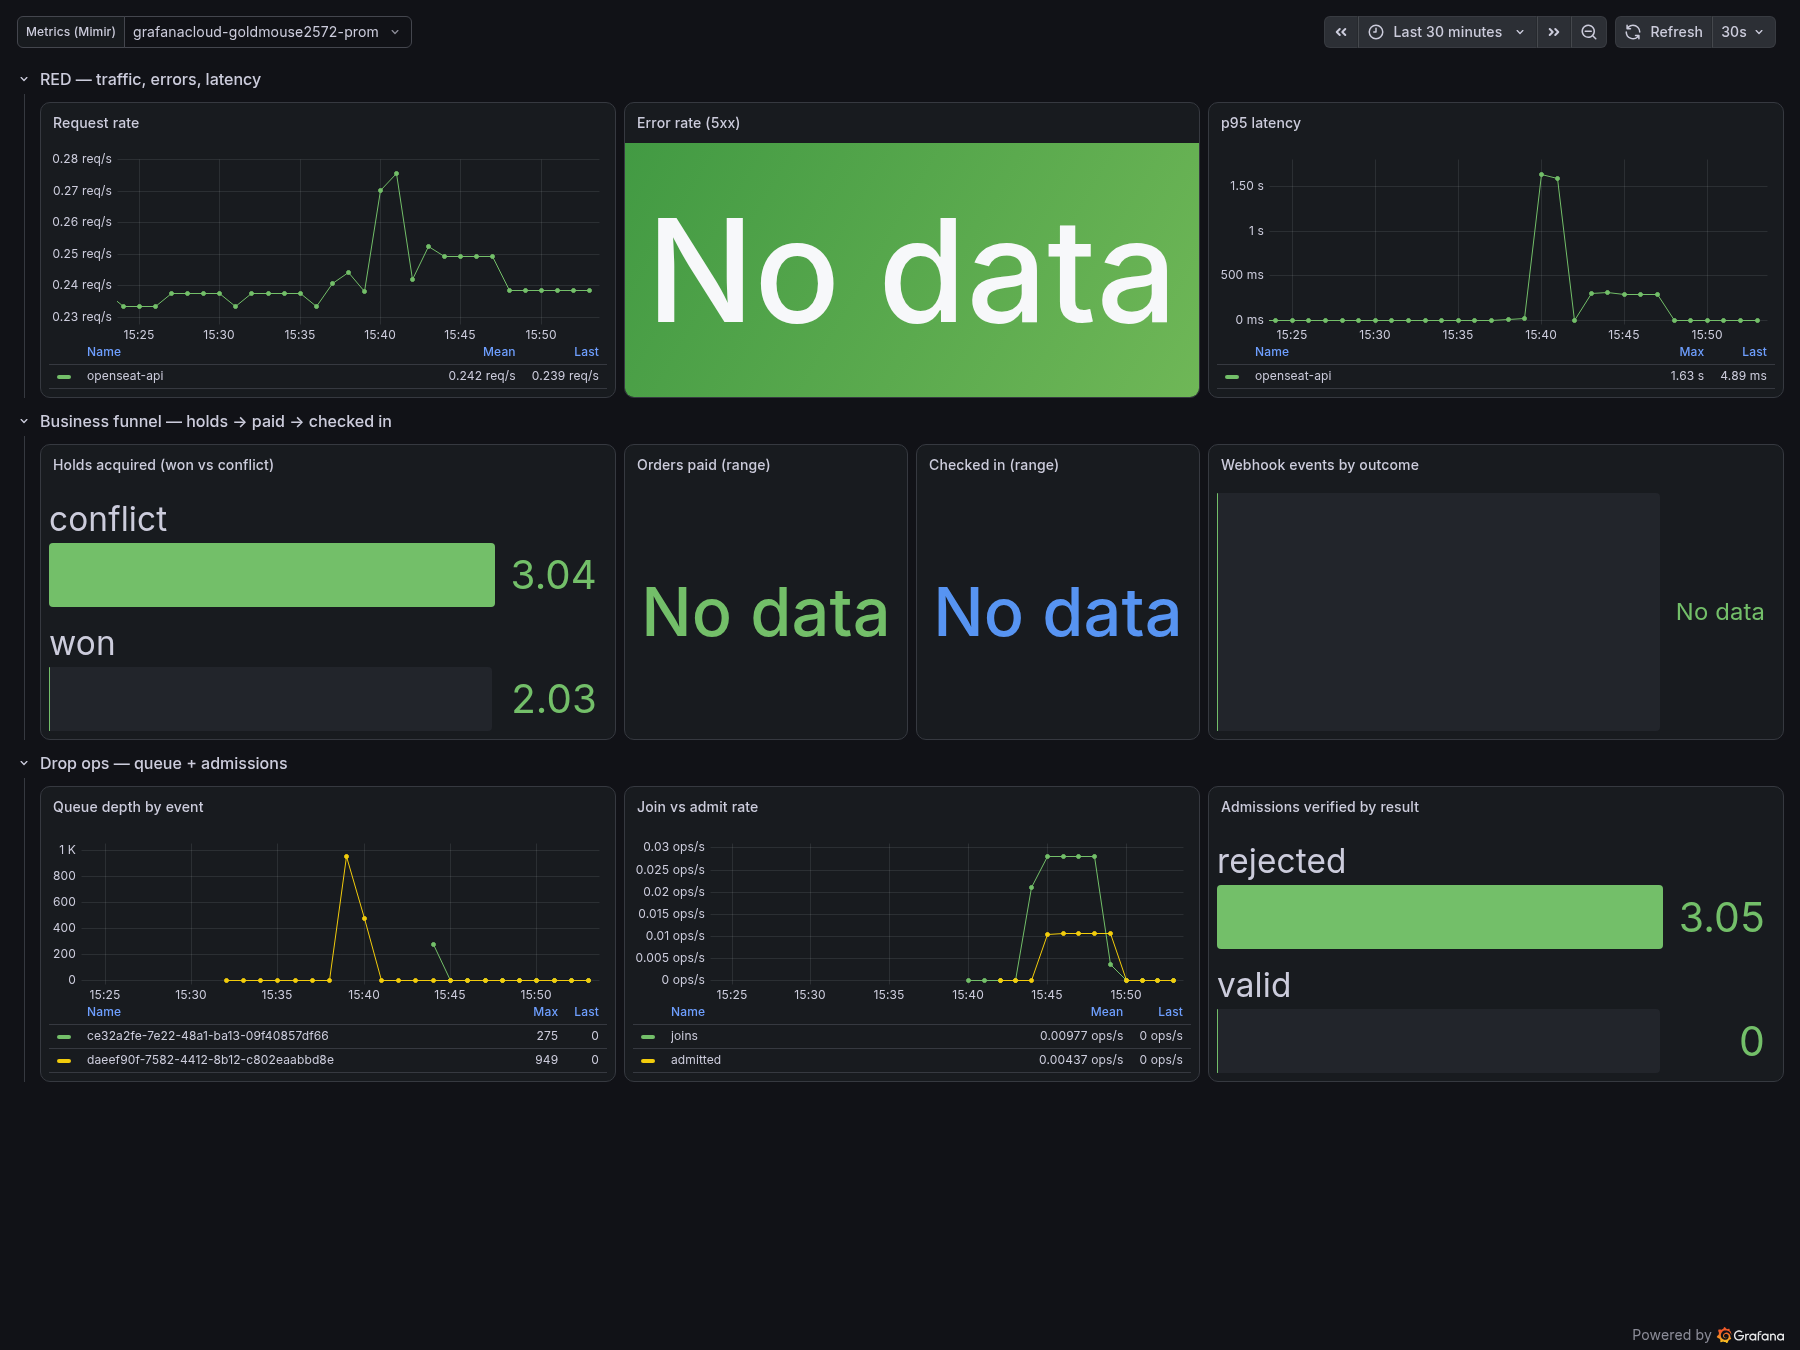
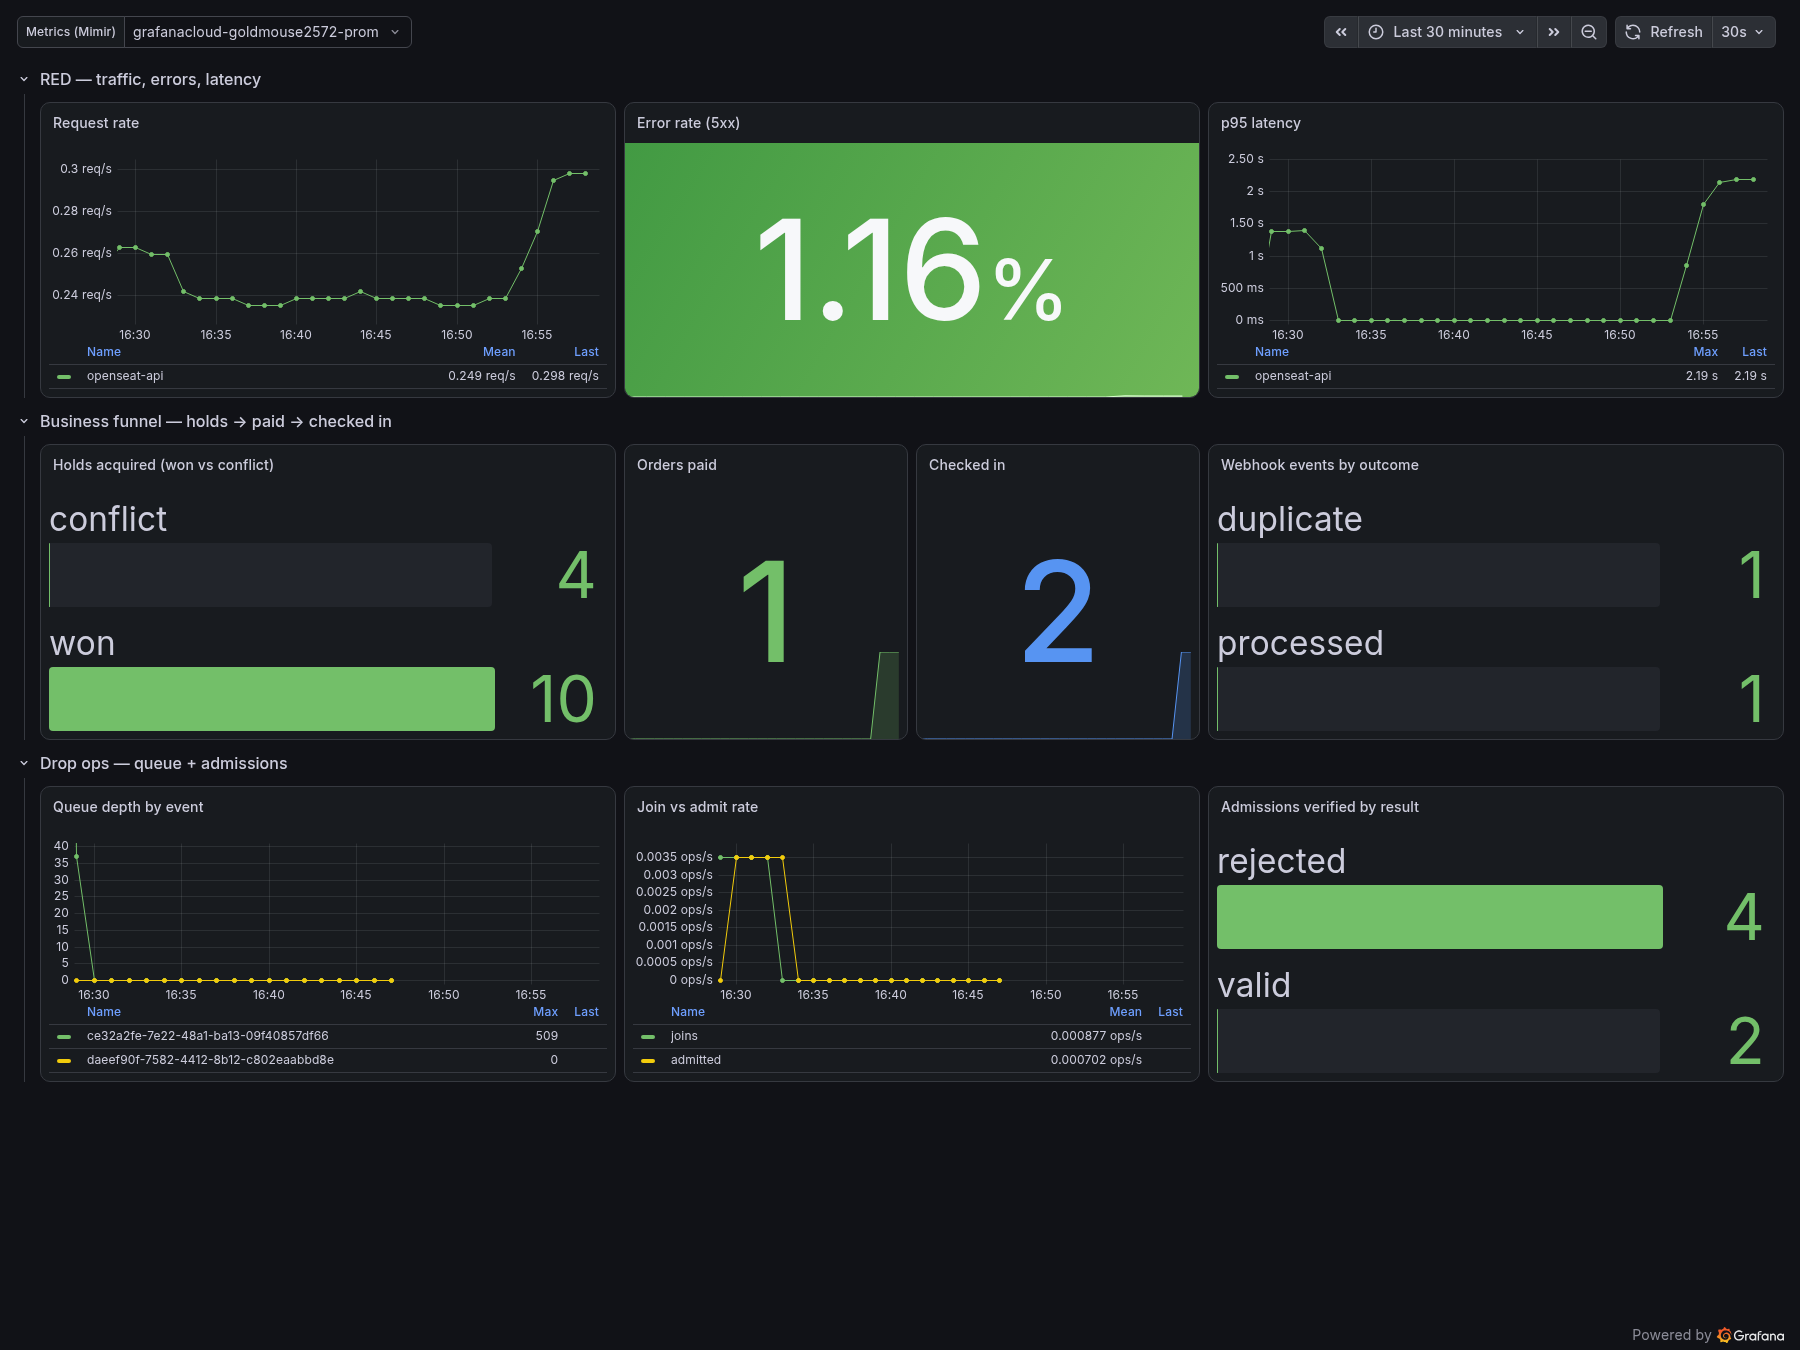
docs: replace the dashboard capture with a fully populated funnel
The committed screenshot predated the query fixes and showed their
absence: 'No data' on error rate and every funnel stage, and extrapolated
counters reading conflict 3.04 / won 2.03. A production run through the
whole flow — hold, pay, check in, rescan — fills every panel, so the
capture now shows what the dashboard is for.

Add the PayMock sleep incident to the runbook. It surfaced during that
run and the existing entries miss it: incident 3 watches the webhook
path, but a sleeping provider fails earlier, before an intent exists.

diff --git a/docs/runbook.md b/docs/runbook.md
@@ -1,6 +1,6 @@
 # OpenSeat Runbook
 
-How to detect, diagnose, and mitigate the five incidents most likely to hit this deployment. Telemetry lives in Grafana Cloud (dashboard: **OpenSeat Ops**, exported to `docs/observability/openseat-ops-dashboard.json`); services export OTLP directly per ADR 0009.
+How to detect, diagnose, and mitigate the six incidents most likely to hit this deployment. Telemetry lives in Grafana Cloud (dashboard: **OpenSeat Ops**, exported to `docs/observability/openseat-ops-dashboard.json`); services export OTLP directly per ADR 0009.
 
 Conventions used below:
 
@@ -47,6 +47,14 @@ Conventions used below:
 **Diagnose.** In Tempo, `{ resource.service.name = "openseat-api" && duration > 500ms }` then open the slowest traces — the auto-instrumented `pg` spans show which query burns the time. Hold-acquisition conflicts (`holds_acquired_total{result="conflict"}`) rising alongside is contention on hot seats, which is expected during a drop; uniform slowness across unrelated queries is the Neon free-tier compute limit.
 
 **Mitigate.** Contention: nothing to fix — the `INSERT … ON CONFLICT` path is designed to lose fast (ADR 0002). General saturation: Neon free tier autosuspends and shares compute; sustained load needs the paid tier or the AWS path (`docs/aws-production.md`, RDS sizing). Long term the read-heavy dashboard queries move to a replica per that document.
+
+## 6. PayMock asleep — checkout cannot start
+
+**Detect.** Buyers get `502 The payment provider is unavailable — try again shortly` the moment they submit an order, while the RED row stays healthy: the API is fine, its dependency is not. `orders_paid_total` flatlines even though holds keep being won, and no `webhook_events_total` movement follows — unlike incident 3, no intent was ever created, so there is no webhook to wait for. The API answers 502, so a large enough burst trips the 5xx alert.
+
+**Diagnose.** PayMock is a Render free service and is *allowed* to sleep — the keep-alive cron deliberately covers only the API (ADR 0009's hosting trade-off). Confirm with `{service_name="openseat-api"} | json |= "paymock"`, or open the checkout trace in Tempo and read the failed outbound span to the PayMock origin. A cold start measured **22.5 s** on 2026-07-16, far past the client's timeout, which is why the first buyer after an idle period always eats a 502 and a retry moments later succeeds.
+
+**Mitigate.** Wake it — `curl -sS https://<paymock-origin>/health` — then retry; the next attempt succeeds. Nothing is stranded: `createIntent` runs *after* the order transaction commits, and its failure path cancels the order (`expireOrder(orderId, 'canceled')` in `orders.service.ts`), releasing the seats in one transaction instead of holding them for the 15-minute payment window. A PayMock nap therefore leaves a trail of `canceled` orders, never stuck `awaiting_payment` ones. Ping `/health` before recording a demo.
 
 ## Escalation notes
 

diff --git a/docs/observability/README.md b/docs/observability/README.md
@@ -9,7 +9,7 @@ The committed half of M7 (see `docs/specs/2026-07-16-m7-observability-design.md`
 Proof it works in production:
 
 - ![Cross-language trace](trace-web-to-gate.png) — **`trace-web-to-gate.png`**: one trace, two languages. The browser's `fetch` span (`openseat-web`, JavaScript via Faro) is the parent of `POST /gate/{eventId}/join` (`openseat-gate`, Go). W3C `traceparent` survives the cross-origin hop, which is the whole point of instrumenting both sides with OpenTelemetry instead of a vendor SDK. Found with `{ resource.service.name = "openseat-web" } && { resource.service.name = "openseat-gate" }`.
-- **`dashboard.png`** — the live dashboard: queue depth spiking to ~950 and draining to zero under the admitter's token bucket, holds split won/conflict, admissions split valid/rejected.
+- **`dashboard.png`** — the live dashboard with every row fed by real production traffic: RED across the API, the full funnel (10 holds won beside 4 lost to conflict → 1 order paid → 2 tickets checked in), `webhook_events_total` showing `processed 1` next to `duplicate 1` — PayMock's deliberate double-send meeting the `provider_event_id` dedup — and the queue draining from 509 to zero under the admitter's token bucket.
 - **`alert-firing.png`** — the 5xx alert in its firing state.
 
 ## Import the dashboard